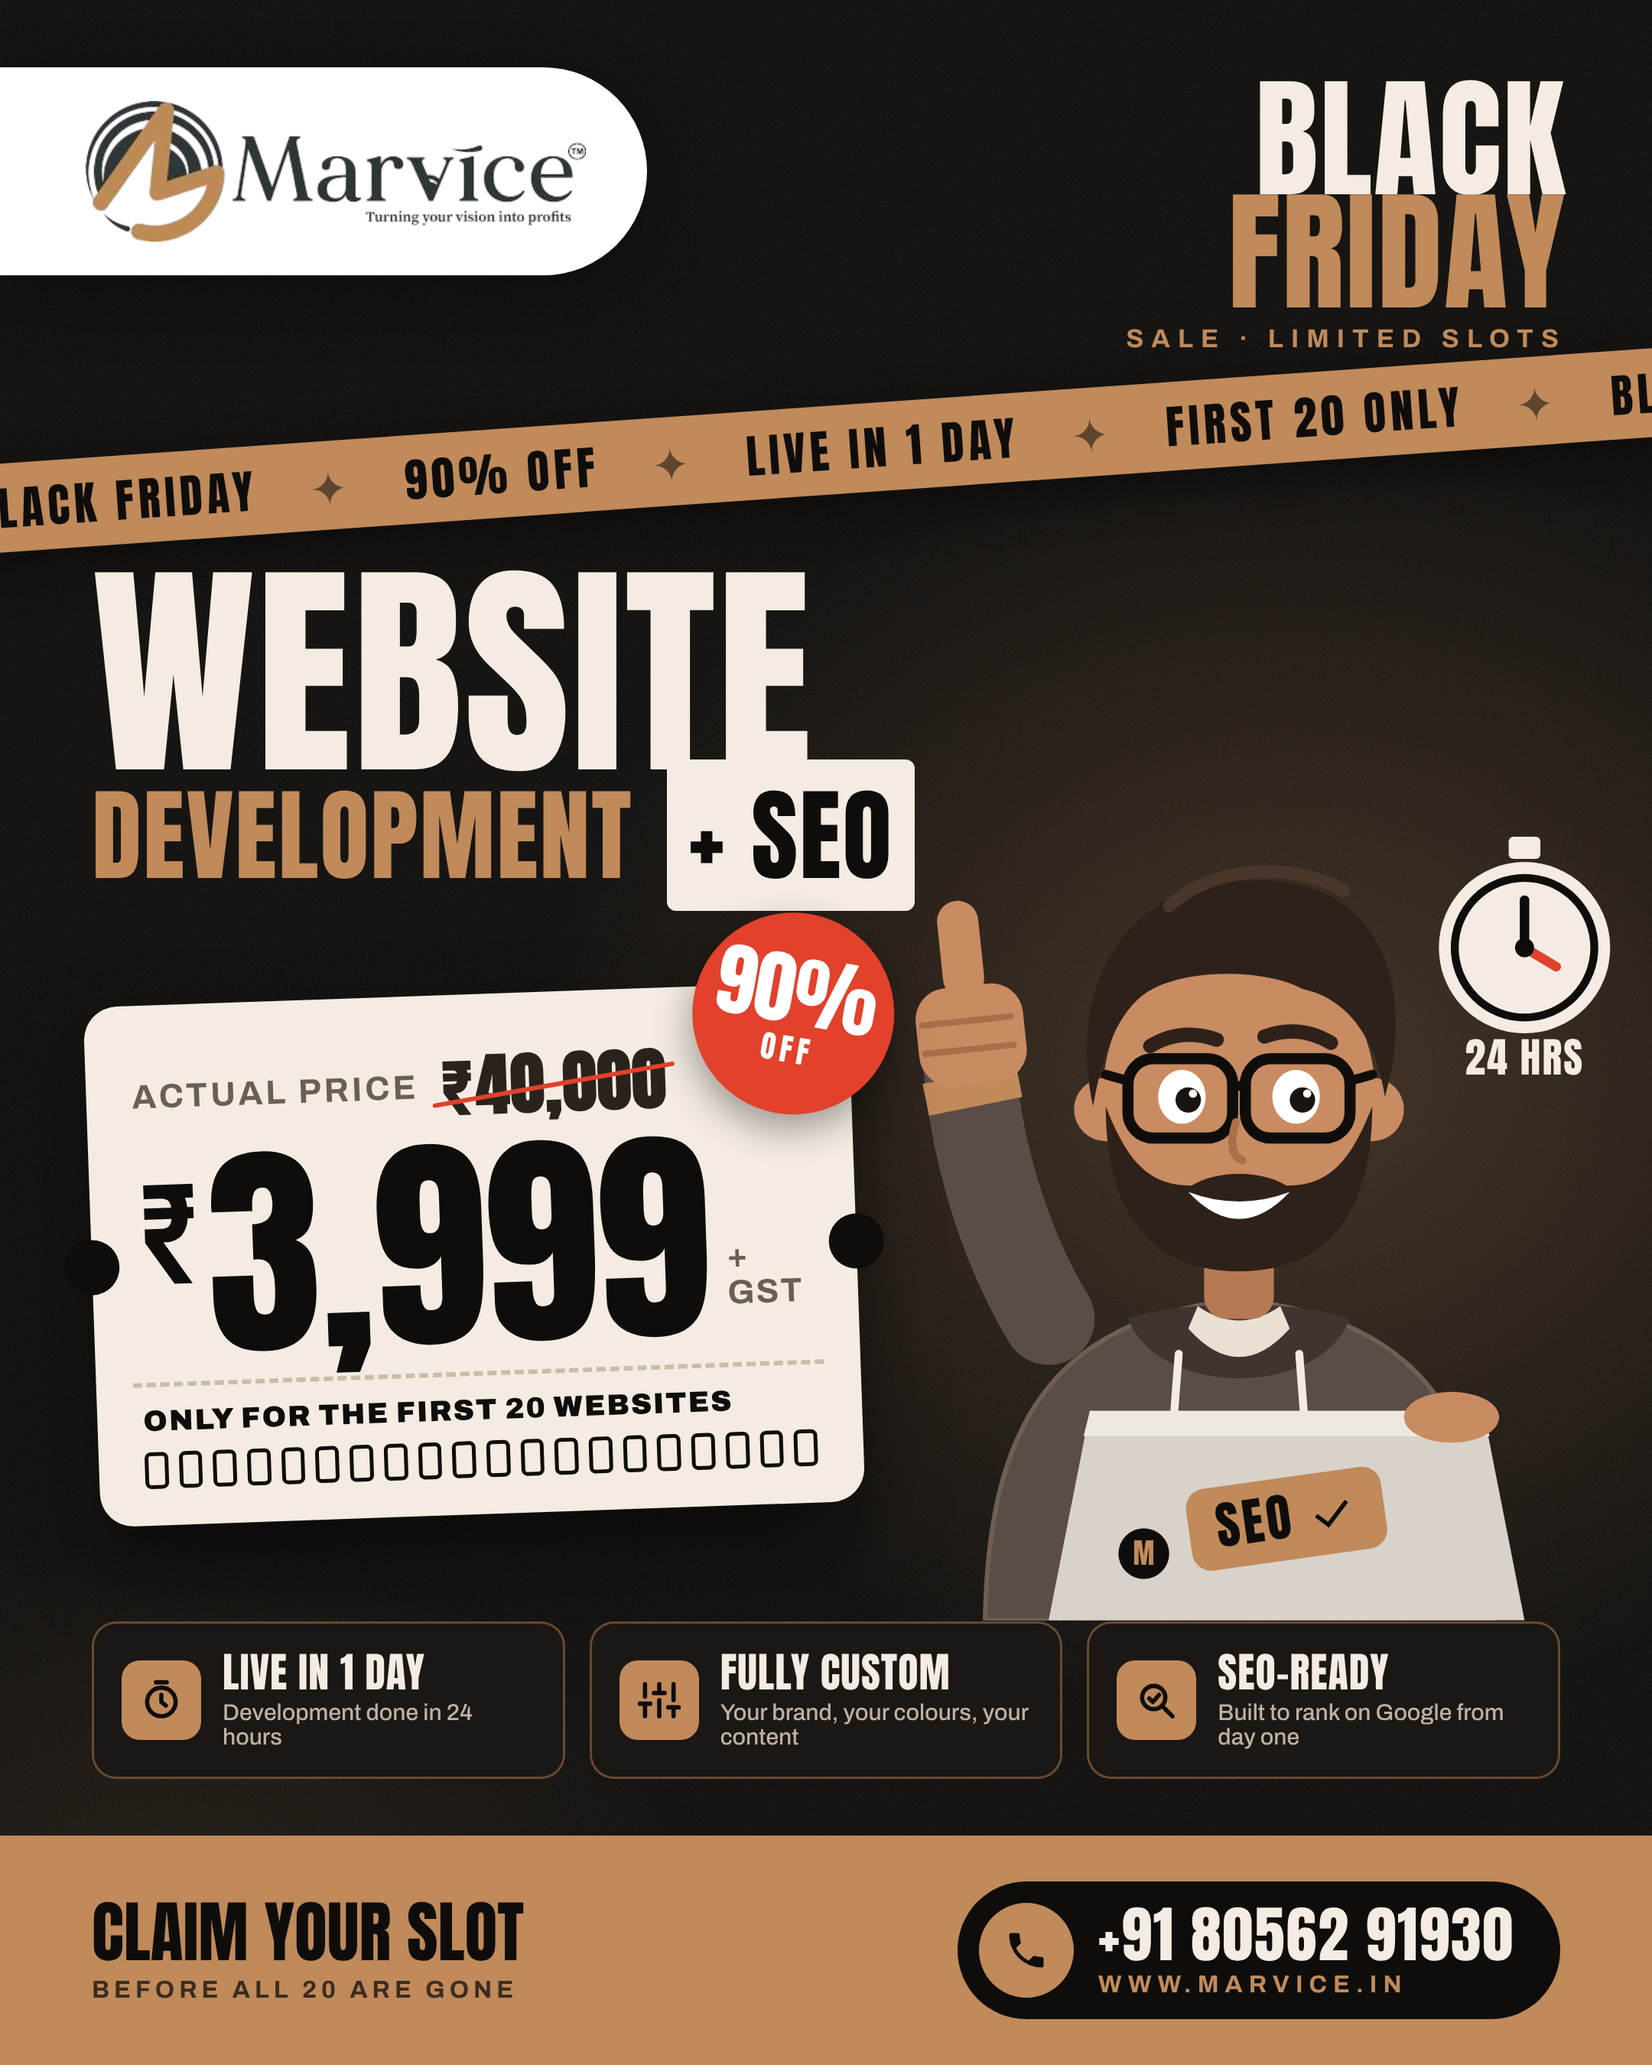
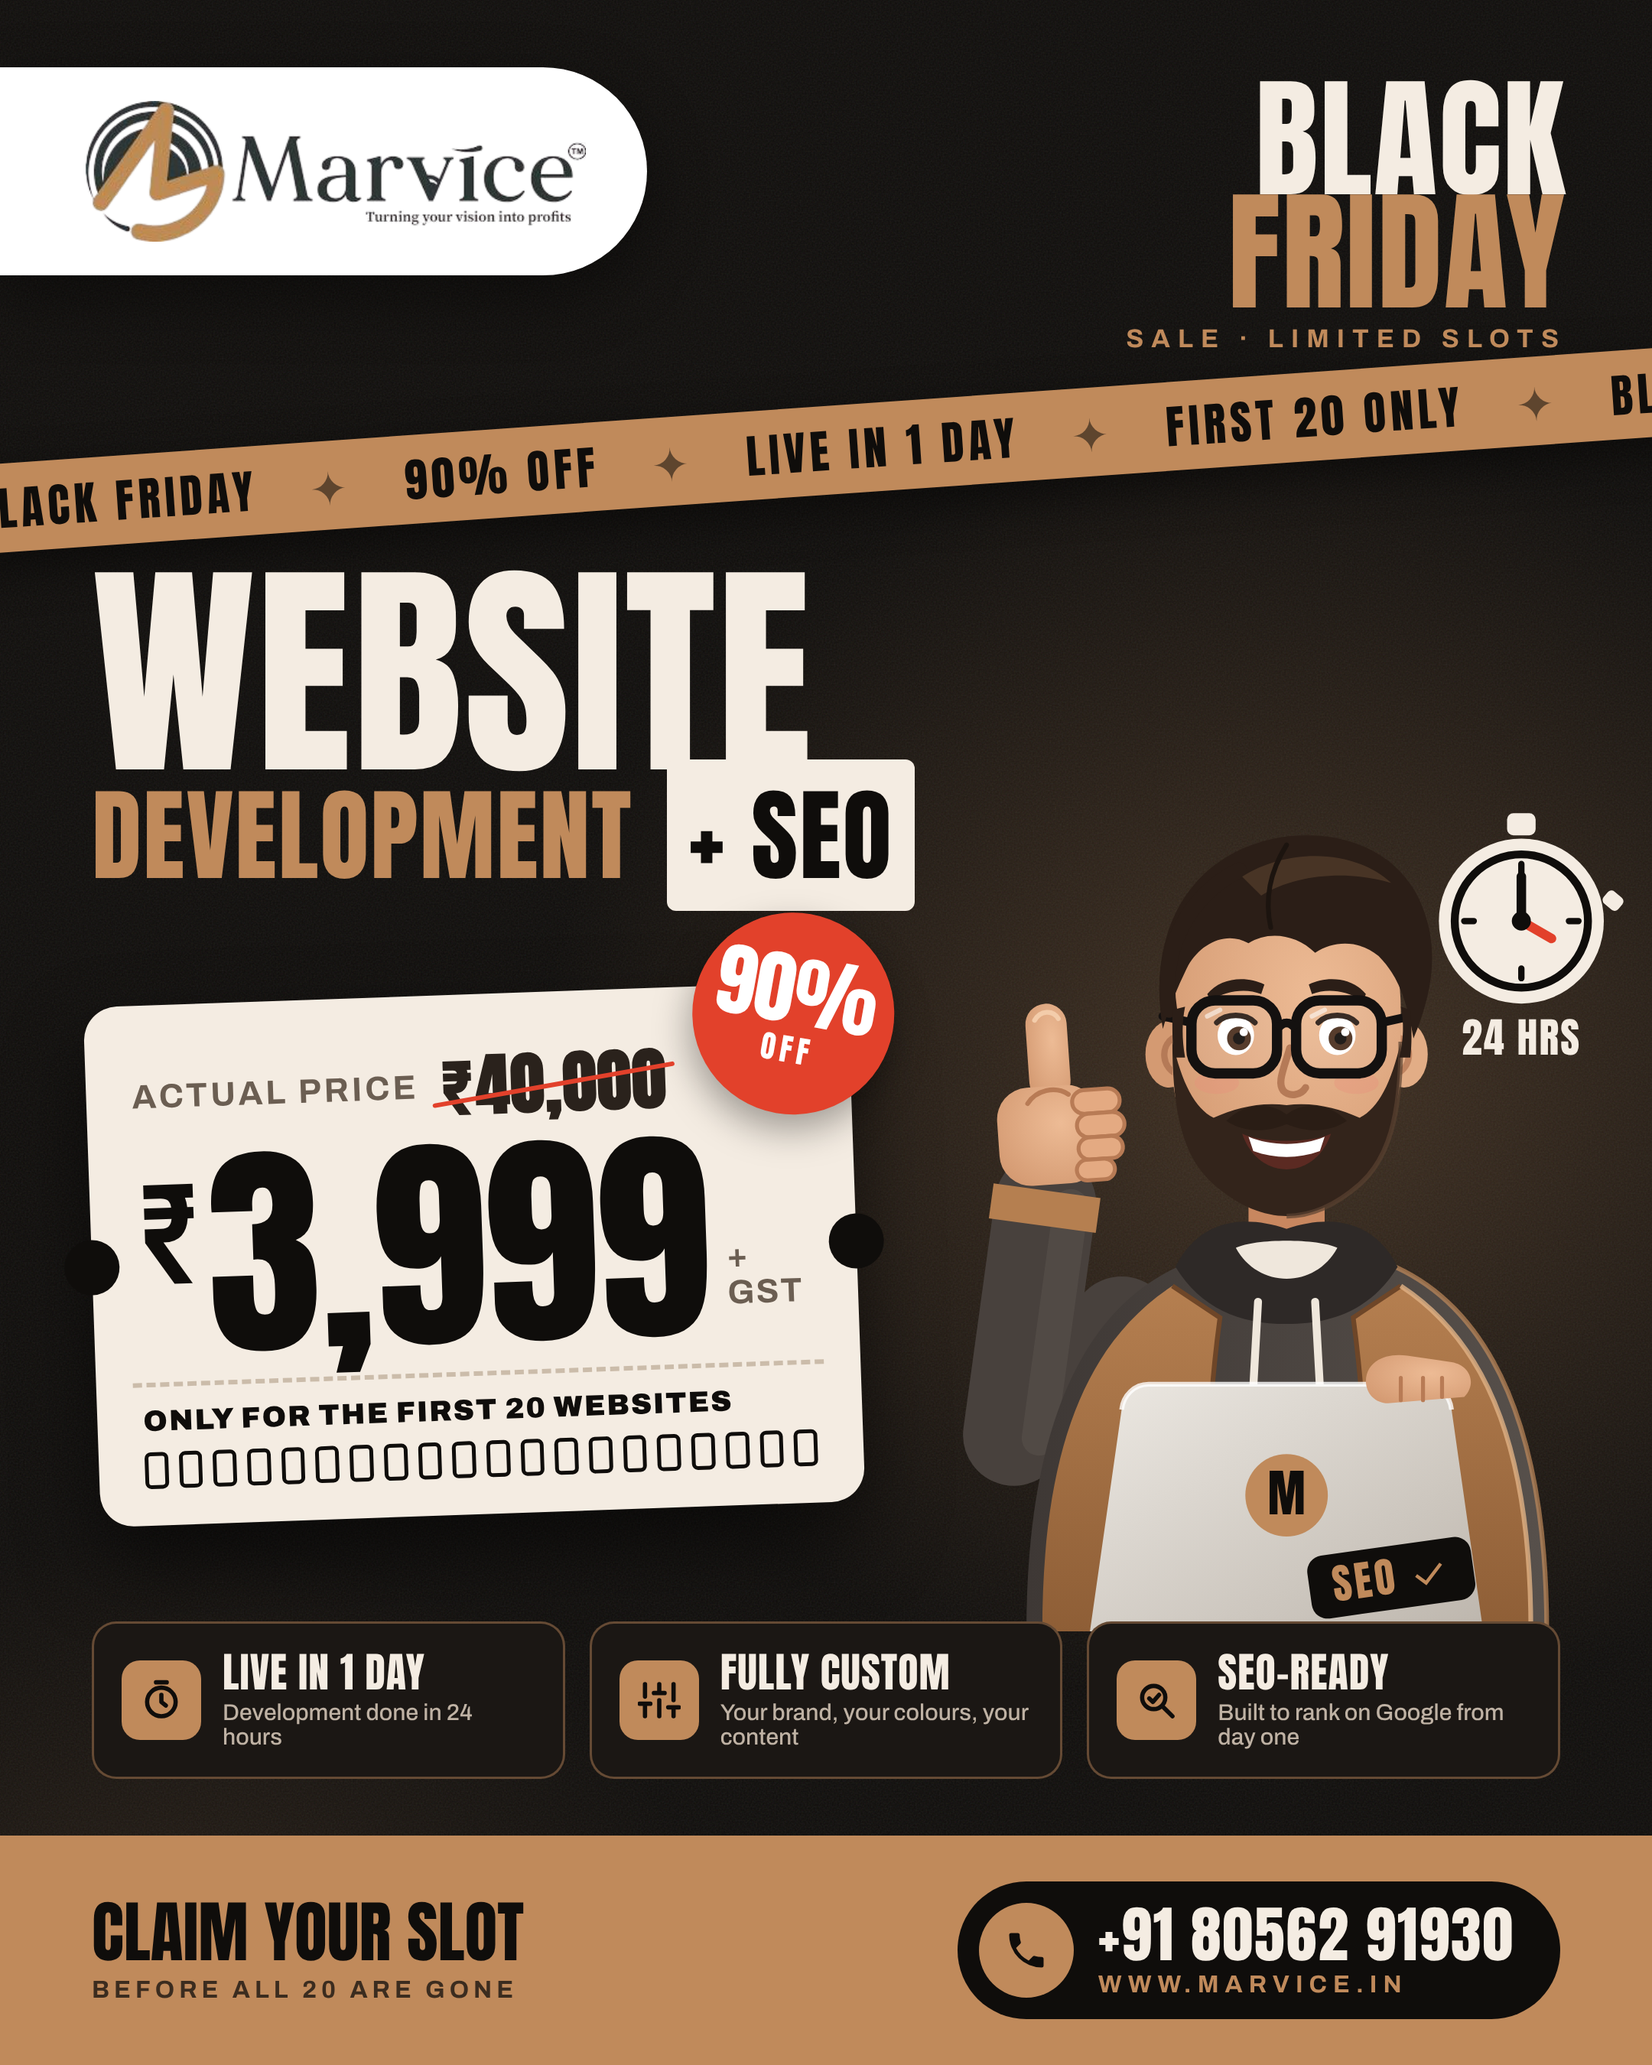
Redraw poster character: clean layered vector with shading and rim light
Claude-Session: https://claude.ai/code/session_01PyBkioxH5JCcYGBu94jnbd

Changed region(s): [[0.5583, 0.3733, 0.9926, 0.8089]]

diff --git a/posters/black-friday-3999/poster.html b/posters/black-friday-3999/poster.html
@@ -60,7 +60,7 @@
     font-family:Anton;box-shadow:0 10px 24px rgba(0,0,0,.35)}
   .off b{font-weight:400;font-size:52px;line-height:.9}.off small{font-size:20px;letter-spacing:3px}
 
-  .char{position:absolute;right:-10px;top:520px;width:560px;z-index:3}
+  .char{position:absolute;right:-10px;top:486px;width:560px;z-index:3}
 
   .note{position:absolute;right:300px;top:604px;font-family:Caveat;font-size:40px;color:var(--bronze);transform:rotate(-7deg);z-index:4;line-height:1}
   .note svg{display:block;margin:4px 0 0 150px}
@@ -108,73 +108,117 @@
 
 
   <!-- Character: hand-drawn SVG -->
-  <svg class="char" viewBox="0 0 540 520" xmlns="http://www.w3.org/2000/svg">
-    <!-- stopwatch bubble -->
-    <g transform="translate(450 96)">
-      <circle r="54" fill="#F4ECE2"/>
-      <rect x="-10" y="-70" width="20" height="14" rx="3" fill="#F4ECE2"/>
-      <circle r="44" fill="none" stroke="#0F0D0B" stroke-width="5"/>
-      <path d="M0 0 L0 -30" stroke="#0F0D0B" stroke-width="6" stroke-linecap="round"/>
-      <path d="M0 0 L20 12" stroke="#E2412B" stroke-width="6" stroke-linecap="round"/>
+  <svg class="char" viewBox="0 0 540 560" xmlns="http://www.w3.org/2000/svg">
+    <defs>
+      <linearGradient id="lid" x1="0" y1="0" x2="1" y2="1"><stop offset="0" stop-color="#ECE8E2"/><stop offset="1" stop-color="#BDB6AD"/></linearGradient>
+      <linearGradient id="vest" x1="0" y1="0" x2="0" y2="1"><stop offset="0" stop-color="#B57F50"/><stop offset="1" stop-color="#8E5E36"/></linearGradient>
+      <linearGradient id="hood" x1="0" y1="0" x2="1" y2="0"><stop offset="0" stop-color="#3E3835"/><stop offset="1" stop-color="#57504B"/></linearGradient>
+      <radialGradient id="skin" cx=".62" cy=".38" r=".75"><stop offset="0" stop-color="#EDBB95"/><stop offset="1" stop-color="#D49A72"/></radialGradient>
+    </defs>
+
+    <!-- stopwatch -->
+    <g transform="translate(448 112)">
+      <rect x="-9" y="-68" width="18" height="14" rx="4" fill="#F4ECE2"/>
+      <rect x="30" y="-52" width="12" height="10" rx="3" fill="#F4ECE2" transform="rotate(40)"/>
+      <circle r="52" fill="#F4ECE2"/>
+      <circle r="42" fill="none" stroke="#0F0D0B" stroke-width="5"/>
+      <g stroke="#0F0D0B" stroke-width="4" stroke-linecap="round"><path d="M0 -36v6M36 0h-6M0 36v-6M-36 0h6"/></g>
+      <path d="M0 0V-28" stroke="#0F0D0B" stroke-width="6" stroke-linecap="round"/>
+      <path d="M0 0L19 11" stroke="#E2412B" stroke-width="6" stroke-linecap="round"/>
       <circle r="6" fill="#0F0D0B"/>
-      <text y="80" text-anchor="middle" font-family="Anton" font-size="26" fill="#F4ECE2" letter-spacing="1">24 HRS</text>
+      <text y="84" text-anchor="middle" font-family="Anton" font-size="26" fill="#F4ECE2" letter-spacing="1">24 HRS</text>
     </g>
 
-    <!-- raised arm (thumbs up) -->
-    <path d="M150 330 C 120 280, 104 220, 100 170" stroke="#5A4D45" stroke-width="58" stroke-linecap="round" fill="none"/>
-    <path d="M104 196 L 100 176" stroke="#C08A5B" stroke-width="60" fill="none"/>
-    <g transform="translate(100 140) rotate(-6)">
-      <rect x="-34" y="-20" width="68" height="62" rx="20" fill="#C98B62"/>
-      <rect x="-14" y="-74" width="26" height="62" rx="13" fill="#C98B62"/>
-      <path d="M-30 2 H26 M-30 20 H26" stroke="#A86F4A" stroke-width="4" stroke-linecap="round"/>
-    </g>
-
-    <!-- body / hoodie -->
-    <path d="M110 520 C 112 400, 150 330, 270 318 C 390 330, 428 400, 430 520 Z" fill="#5A4D45" stroke="#6E5F55" stroke-width="3"/>
-    <path d="M200 330 C 220 380, 320 380, 340 330 C 310 318, 230 318, 200 330 Z" fill="#3F3530"/>
-    <path d="M232 352 L226 430 M308 352 L314 430" stroke="#F4ECE2" stroke-width="5" stroke-linecap="round"/>
-    <circle cx="226" cy="434" r="6" fill="#C08A5B"/><circle cx="314" cy="434" r="6" fill="#C08A5B"/>
-    <!-- tee -->
-    <path d="M238 336 Q 270 372 302 336 L 296 322 Q 270 340 244 322 Z" fill="#E9E0D4"/>
+    <!-- raised arm (sleeve) -->
+    <path d="M196 368L128 436L148 290" fill="none" stroke="#48413D" stroke-width="64" stroke-linejoin="round" stroke-linecap="round"/>
+    <path d="M128 436L148 290" fill="none" stroke="#5A524D" stroke-width="22" stroke-linecap="round" transform="translate(16 2)" opacity=".55"/>
+    <path d="M146 304L149 282" stroke="#B57F50" stroke-width="68" stroke-linecap="butt"/>
+    <!-- torso / hoodie -->
+    <path d="M136 560C136 438 168 356 236 328L300 320L364 328C432 356 464 438 464 560Z" fill="url(#hood)"/>
+    <path d="M364 328C432 356 464 438 464 560" fill="none" stroke="#C08A5B" stroke-width="3" opacity=".7"/>
+    <!-- vest panels -->
+    <path d="M146 560C146 452 170 380 228 342L258 362C250 420 248 490 250 560Z" fill="url(#vest)"/>
+    <path d="M454 560C454 452 430 380 372 342L342 362C350 420 352 490 350 560Z" fill="url(#vest)"/>
+    <path d="M228 342L258 362C250 420 248 490 250 560" fill="none" stroke="#6E4628" stroke-width="3"/>
+    <path d="M372 342L342 362C350 420 352 490 350 560" fill="none" stroke="#6E4628" stroke-width="3"/>
+    <path d="M454 560C454 452 430 380 372 342" fill="none" stroke="#E0B184" stroke-width="3" opacity=".8"/>
     <!-- neck -->
-    <rect x="248" y="280" width="44" height="50" rx="14" fill="#B57A54"/>
+    <path d="M276 266V318C290 328 310 328 324 318V266Z" fill="#C8875F"/>
+    <!-- hood collar + tee -->
+    <path d="M230 330C244 302 270 296 300 306C330 296 356 302 370 330C354 356 330 366 300 366C270 366 246 356 230 330Z" fill="#2E2927"/>
+    <path d="M268 318C282 344 318 344 332 318C320 312 280 312 268 318Z" fill="#EFE7DC"/>
+    <!-- drawstrings -->
+    <g stroke="#EFE7DC" stroke-width="5" stroke-linecap="round"><path d="M282 352L278 424"/><path d="M318 352L322 424"/></g>
+    <rect x="273" y="422" width="10" height="16" rx="3" fill="#C08A5B"/><rect x="317" y="422" width="10" height="16" rx="3" fill="#C08A5B"/>
 
-    <!-- head -->
-    <circle cx="186" cy="198" r="20" fill="#C98B62"/><circle cx="354" cy="198" r="20" fill="#C98B62"/>
-    <ellipse cx="270" cy="190" rx="86" ry="100" fill="#C98B62"/>
-    <!-- beard -->
-    <path d="M186 196 C 186 278, 228 300, 270 300 C 312 300, 354 278, 354 196 C 340 232, 326 246, 300 246 C 284 236, 256 236, 240 246 C 214 246, 200 232, 186 196 Z" fill="#2E211A"/>
-    <!-- smile -->
-    <path d="M238 250 Q 270 284 302 250 Q 270 262 238 250 Z" fill="#fff"/>
-    <!-- hair -->
-    <path d="M178 196 C 160 112, 206 52, 278 54 C 352 50, 384 112, 362 190 C 356 152, 338 128, 310 122 C 288 110, 238 108, 212 124 C 194 136, 184 162, 178 196 Z" fill="#2E211A"/>
-    <path d="M226 70 C 250 46, 302 40, 336 60" stroke="#4A372B" stroke-width="8" fill="none" stroke-linecap="round"/>
-    <!-- brows -->
-    <path d="M214 158 Q 234 146 256 154" stroke="#2E211A" stroke-width="9" fill="none" stroke-linecap="round"/>
-    <path d="M286 152 Q 308 144 328 156" stroke="#2E211A" stroke-width="9" fill="none" stroke-linecap="round"/>
-    <!-- eyes -->
-    <ellipse cx="234" cy="190" rx="15" ry="17" fill="#fff"/><ellipse cx="306" cy="190" rx="15" ry="17" fill="#fff"/>
-    <circle cx="238" cy="192" r="8" fill="#1a1410"/><circle cx="310" cy="192" r="8" fill="#1a1410"/>
-    <circle cx="241" cy="188" r="2.6" fill="#fff"/><circle cx="313" cy="188" r="2.6" fill="#fff"/>
-    <!-- glasses -->
-    <rect x="200" y="166" width="66" height="50" rx="16" fill="none" stroke="#0F0D0B" stroke-width="7"/>
-    <rect x="274" y="166" width="66" height="50" rx="16" fill="none" stroke="#0F0D0B" stroke-width="7"/>
-    <path d="M266 186 Q 270 180 274 186" stroke="#0F0D0B" stroke-width="6" fill="none"/>
-    <path d="M200 180 L186 176 M340 180 L354 176" stroke="#0F0D0B" stroke-width="6" stroke-linecap="round"/>
-    <!-- nose -->
-    <path d="M268 206 Q 262 226 272 230" stroke="#A86F4A" stroke-width="5" fill="none" stroke-linecap="round"/>
-
-    <!-- laptop (back facing viewer) -->
-    <path d="M150 520 L 176 388 L 424 388 L 450 520 Z" fill="#D8D2CA"/>
-    <path d="M176 388 L 424 388 L 428 404 L 172 404 Z" fill="#EDE8E1"/>
-    <!-- sticker -->
-    <g transform="translate(300 456) rotate(-8)">
-      <rect x="-62" y="-26" width="124" height="52" rx="12" fill="#C08A5B"/>
-      <text y="12" text-anchor="middle" font-family="Anton" font-size="32" fill="#0F0D0B" letter-spacing="2">SEO ✓</text>
+    <!-- thumbs-up hand -->
+    <g transform="translate(152 244) rotate(-4)">
+      <rect x="-12" y="-80" width="26" height="62" rx="13" fill="url(#skin)"/>
+      <path d="M-6 -70C-2 -76 6 -76 9 -70" stroke="#F3CCAA" stroke-width="3" fill="none" stroke-linecap="round"/>
+      <rect x="-34" y="-28" width="64" height="62" rx="20" fill="url(#skin)"/>
+      <g fill="#E4AA82" stroke="#B87B55" stroke-width="2.5">
+        <rect x="14" y="-24" width="30" height="15" rx="7.5"/>
+        <rect x="16" y="-9" width="30" height="15" rx="7.5"/>
+        <rect x="16" y="6" width="28" height="14" rx="7"/>
+        <rect x="14" y="20" width="24" height="13" rx="6.5"/>
+      </g>
+      <path d="M-14 -18C-8 -26 4 -28 12 -22" stroke="#B87B55" stroke-width="3" fill="none" stroke-linecap="round"/>
     </g>
-    <circle cx="210" cy="478" r="16" fill="#0F0D0B"/><text x="210" y="485" text-anchor="middle" font-family="Anton" font-size="18" fill="#C08A5B">M</text>
-    <!-- resting hand on laptop -->
-    <ellipse cx="404" cy="392" rx="30" ry="16" fill="#C98B62"/>
+
+    <!-- ears -->
+    <ellipse cx="226" cy="196" rx="15" ry="21" fill="#D49A72"/><path d="M228 186C220 192 222 204 230 208" stroke="#B57A57" stroke-width="4" fill="none" stroke-linecap="round"/>
+    <ellipse cx="374" cy="196" rx="15" ry="21" fill="#E2AD86"/><path d="M372 186C380 192 378 204 370 208" stroke="#C08460" stroke-width="4" fill="none" stroke-linecap="round"/>
+    <!-- face -->
+    <path d="M228 168C228 110 260 84 300 84C340 84 372 110 372 168V204C372 250 340 284 300 284C260 284 228 250 228 204Z" fill="url(#skin)"/>
+    <!-- beard -->
+    <path d="M228 188C228 236 236 262 254 278C270 292 286 298 300 298C314 298 330 292 346 278C364 262 372 236 372 188C366 214 358 230 346 236C332 230 318 226 300 228C282 226 268 230 254 236C242 230 234 214 228 188Z" fill="#33241B"/>
+    <path d="M300 298C314 298 330 292 346 278C364 262 372 236 372 188" fill="none" stroke="#5A4130" stroke-width="3" opacity=".7"/>
+    <!-- mouth -->
+    <path d="M272 246C282 276 318 276 328 246C316 252 284 252 272 246Z" fill="#5B2A22"/>
+    <path d="M276 248C290 254 310 254 324 248L321 257C307 262 293 262 279 257Z" fill="#fff"/>
+    <!-- moustache -->
+    <path d="M262 238C274 226 290 226 300 234C310 226 326 226 338 238C326 246 312 245 300 240C288 245 274 246 262 238Z" fill="#2A1D15"/>
+    <!-- nose -->
+    <path d="M302 192C298 206 294 214 298 219C302 223 309 222 312 217" stroke="#B57A57" stroke-width="4.5" fill="none" stroke-linecap="round"/>
+    <!-- cheeks -->
+    <ellipse cx="256" cy="214" rx="14" ry="7" fill="#E8907A" opacity=".35"/><ellipse cx="344" cy="214" rx="14" ry="7" fill="#E8907A" opacity=".35"/>
+    <!-- eyes -->
+    <ellipse cx="268" cy="184" rx="11.5" ry="12.5" fill="#fff"/><ellipse cx="332" cy="184" rx="11.5" ry="12.5" fill="#fff"/>
+    <circle cx="270" cy="186" r="7.5" fill="#4A2E1C"/><circle cx="334" cy="186" r="7.5" fill="#4A2E1C"/>
+    <circle cx="270" cy="186" r="3.8" fill="#120D0A"/><circle cx="334" cy="186" r="3.8" fill="#120D0A"/>
+    <circle cx="273" cy="182" r="2.6" fill="#fff"/><circle cx="337" cy="182" r="2.6" fill="#fff"/>
+    <path d="M256 176C262 170 274 170 280 176M320 176C326 170 338 170 344 176" stroke="#2A1D15" stroke-width="3.5" fill="none" stroke-linecap="round"/>
+    <!-- brows -->
+    <path d="M250 158C258 148 274 146 286 152L284 158C274 154 262 156 252 162Z" fill="#2B1E17"/>
+    <path d="M314 152C326 146 342 148 350 158L348 162C338 156 326 154 316 158Z" fill="#2B1E17"/>
+    <!-- glasses -->
+    <g fill="rgba(255,255,255,.07)" stroke="#141110" stroke-width="6.5">
+      <rect x="240" y="162" width="54" height="46" rx="15"/>
+      <rect x="306" y="162" width="54" height="46" rx="15"/>
+    </g>
+    <path d="M294 180C298 175 302 175 306 180" stroke="#141110" stroke-width="5.5" fill="none"/>
+    <path d="M240 176L222 172M360 176L378 172" stroke="#141110" stroke-width="5.5" stroke-linecap="round"/>
+    <path d="M250 172L258 168M316 172L324 168" stroke="#fff" stroke-width="3" opacity=".55" stroke-linecap="round"/>
+    <!-- hair -->
+    <path d="M222 180C212 122 236 72 292 60C334 52 376 68 388 110C396 136 390 162 380 186C376 162 370 146 358 134C346 124 330 124 318 132C306 120 288 118 276 126C262 118 246 126 238 140C232 152 226 166 222 180Z" fill="#2B1E17"/>
+    <path d="M226 168C220 130 238 96 270 80" stroke="#2B1E17" stroke-width="10" fill="none" stroke-linecap="round"/>
+    <path d="M272 84C300 66 342 66 366 88C340 80 306 82 284 96Z" fill="#4E3828" opacity=".85"/>
+    <path d="M300 64C290 80 286 98 290 116" stroke="#1C140F" stroke-width="3" fill="none" stroke-linecap="round"/>
+    <path d="M228 168C228 182 228 190 229 198L236 198C234 186 234 176 236 166Z" fill="#2B1E17"/>
+    <path d="M372 166C374 176 374 186 371 198L378 198C379 190 379 180 378 168Z" fill="#2B1E17"/>
+
+    <!-- laptop -->
+    <path d="M176 560L196 420C197 411 204 404 213 404H387C396 404 403 411 404 420L424 560Z" fill="url(#lid)"/>
+    <path d="M196 420C197 411 204 404 213 404H387C396 404 403 411 404 420" fill="none" stroke="#fff" stroke-width="3" opacity=".8"/>
+    <circle cx="300" cy="474" r="26" fill="#C08A5B"/>
+    <text x="300" y="486" text-anchor="middle" font-family="Anton" font-size="32" fill="#0F0D0B">M</text>
+    <g transform="translate(366 526) rotate(-8)">
+      <rect x="-52" y="-20" width="104" height="40" rx="10" fill="#0F0D0B"/>
+      <text y="10" text-anchor="middle" font-family="Anton" font-size="26" fill="#C08A5B" letter-spacing="2">SEO ✓</text>
+    </g>
+    <!-- resting hand -->
+    <path d="M350 402C350 390 362 384 376 386L404 390C416 392 420 404 412 412L364 416C356 416 350 410 350 402Z" fill="url(#skin)"/>
+    <path d="M372 400L372 414M386 400L386 414M398 400L398 412" stroke="#B87B55" stroke-width="2.5" stroke-linecap="round"/>
   </svg>
 
   <div class="feats">
